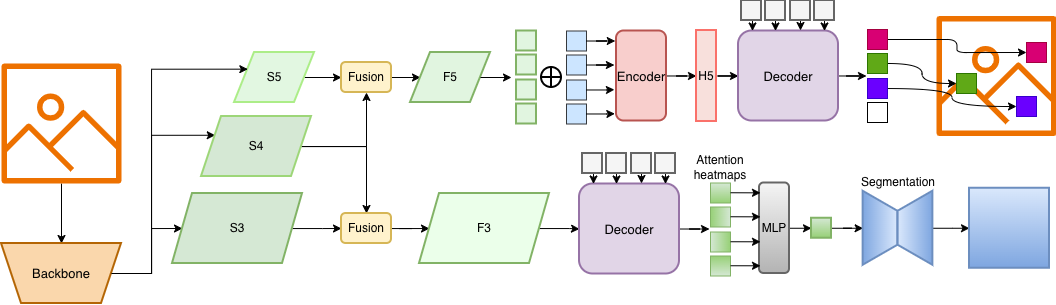
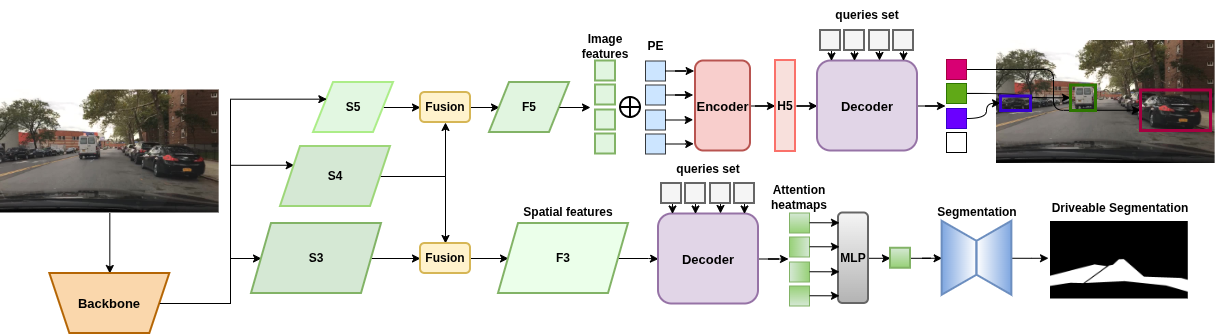
commit sm_fusion

diff --git a/Controller/AutonomousDrivingController/models/hybrid_encoder.py b/Controller/AutonomousDrivingController/models/hybrid_encoder.py
@@ -17,7 +17,59 @@ class RepBlock(nn.Module):
     def forward(self, x):
         out = self.bn3(self.conv3(x)) + self.bn1(self.conv1(x)) + x
         return self.act(out)
-    
+
+class SemanticFusion(nn.Module):
+    """
+    Fusion block cho 2 feature maps S5 & S4 (nhánh detection trong HyDA-DETR).
+    - S5 có độ phân giải nhỏ hơn, giàu ngữ nghĩa.
+    - S4 có độ phân giải lớn hơn, nhiều chi tiết hình học.
+    - Tự động downsample S4 -> size của S5 rồi concat theo kênh.
+    - Hai nhánh song song: 1x1Conv và 1x1Conv + RepBlock (phiên bản nhẹ hơn SpatialFusion).
+    - Element-wise add và kích hoạt SiLU.
+    - Nếu return_flatten=True: trả về [H5*W5, B, C] (F5 trong sơ đồ).
+    """
+    def __init__(self, hidden_dim: int, num_rep_blocks: int = 1, return_flatten: bool = False):
+        super().__init__()
+        C = hidden_dim
+        self.return_flatten = return_flatten
+
+        # Sau concat: [B, 2C, H5, W5] -> [B, C, H5, W5]
+        self.branch1_proj = nn.Conv2d(2*C, C, kernel_size=1, bias=False)
+        self.branch1_bn   = nn.BatchNorm2d(C)
+
+        self.branch2_proj = nn.Conv2d(2*C, C, kernel_size=1, bias=False)
+        self.branch2_bn   = nn.BatchNorm2d(C)
+        reps = [RepBlock(C) for _ in range(num_rep_blocks)]
+        self.branch2_rep  = nn.Sequential(*reps)
+
+        self.act = nn.SiLU(inplace=True)
+
+    def forward(self, s5: torch.Tensor, s4: torch.Tensor):
+        """
+        s5: [B, C, H5, W5]
+        s4: [B, C, H4, W4] (downsample -> [B, C, H5, W5])
+        """
+        B, C, H5, W5 = s5.shape
+
+        # 1) Align S4 -> S5 (downsample)
+        s4_down = F.interpolate(s4, size=(H5, W5), mode='bilinear', align_corners=False)
+
+        # 2) Concat hai đặc trưng
+        x = torch.cat([s5, s4_down], dim=1)  # [B, 2C, H5, W5]
+
+        # 3) Hai nhánh song song
+        b1 = self.branch1_bn(self.branch1_proj(x))          # [B, C, H5, W5]
+        b2 = self.branch2_bn(self.branch2_proj(x))          # [B, C, H5, W5]
+        b2 = self.branch2_rep(b2)
+
+        # 4) Element-wise add + kích hoạt
+        fused = self.act(b1 + b2)                           # [B, C, H5, W5]
+
+        # 5) Flatten (nếu cần cho encoder input)
+        if self.return_flatten:
+            fused = fused.flatten(2).permute(2, 0, 1)       # [H5*W5, B, C]
+
+        return fused
 class SpatialFusion(nn.Module):
     """
     Fusion block (Figure 5 RT-DETR) cho 2 feature maps S3 & S4.
@@ -142,15 +194,18 @@ class HybridTransformerEncoder(nn.Module):
         self.encoder = TransformerEncoder(encoder_layer, num_encoder_layers, encoder_norm)
         
         self.sp_fusion = SpatialFusion(hidden_dim=d_model, num_rep_blocks=1, return_flatten=return_flatten)
+        self.sm_fusion = SemanticFusion(hidden_dim=d_model, num_rep_blocks=1, return_flatten=return_flatten)
         
     def forward(self, src, src3, src4, mask, pos_embed):
         
         # flatten NxCxHxW to HWxNxC
         # bs, c, h, w = src.shape
-        src = src.flatten(2).permute(2, 0, 1)
+        src5 = self.sm_fusion(src, src4)
+
+        src5 = src5.flatten(2).permute(2, 0, 1)
         
         #Encoder Forward
-        memory = self.encoder(src, src_key_padding_mask=mask, pos=pos_embed)
+        memory = self.encoder(src5, src_key_padding_mask=mask, pos=pos_embed)
         #Fusion Spatail Feature
         sp_src = self.sp_fusion(src3, src4)
 
